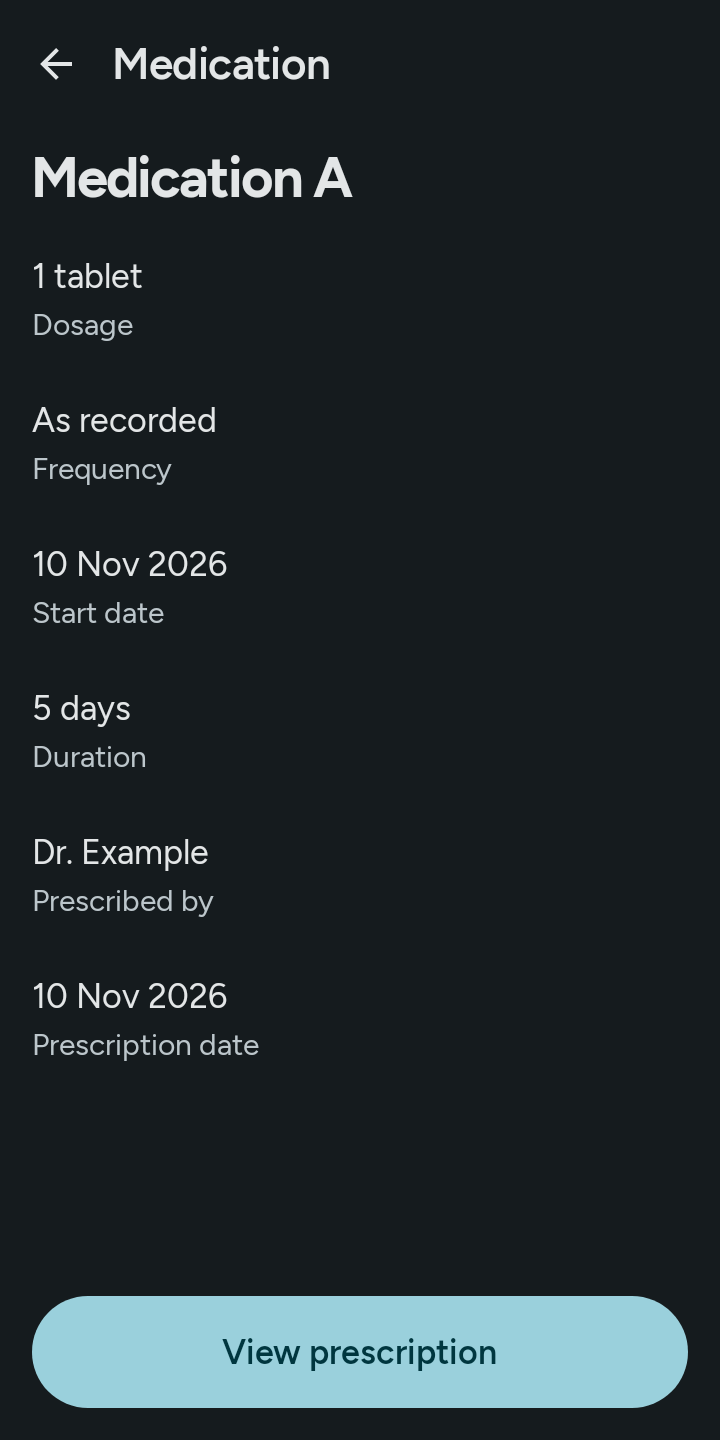
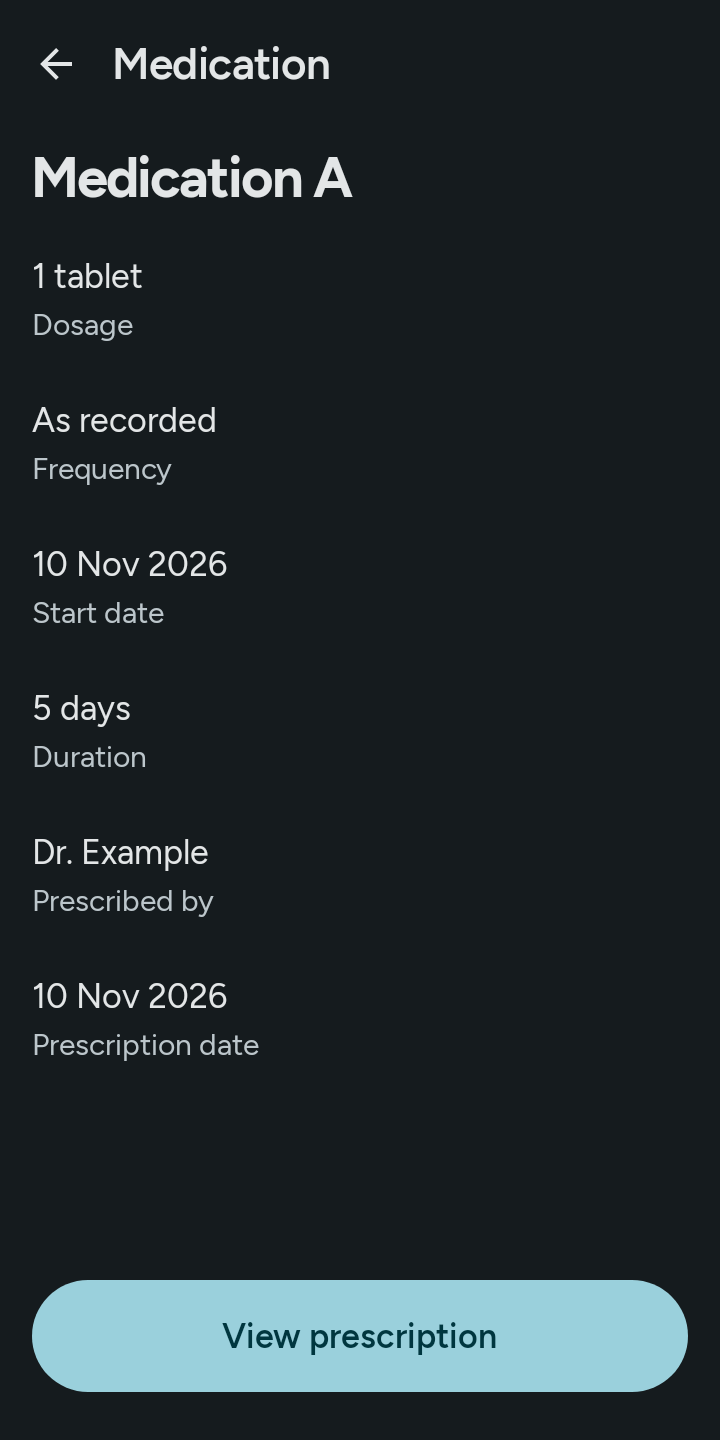
fix: align medication action spacing

Changed region(s): [[0.0306, 0.875, 0.9778, 1.0]]

diff --git a/app/src/main/java/com/github/se/oncompanion/ui/prescription/MedicationDetailScreen.kt b/app/src/main/java/com/github/se/oncompanion/ui/prescription/MedicationDetailScreen.kt
@@ -80,7 +80,12 @@ fun MedicationDetailContent(
                     onClick = { onViewPrescription(state.prescription.id) },
                     modifier =
                         Modifier.fillMaxWidth()
-                            .padding(Spacing.lg)
+                            .padding(
+                                start = Spacing.lg,
+                                end = Spacing.lg,
+                                top = Spacing.lg,
+                                bottom = Spacing.xl,
+                            )
                             .testTag(C.Tag.medication_detail_prescription),
                 )
               },
